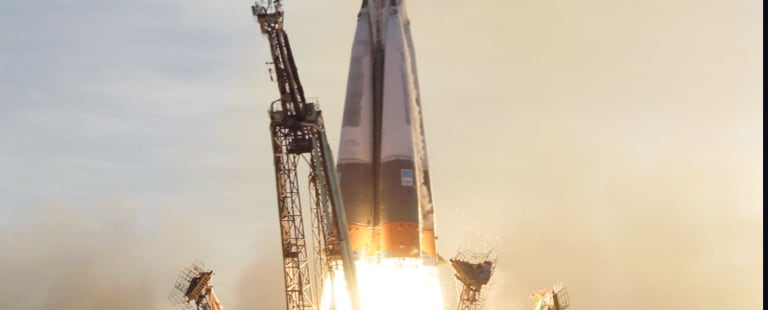
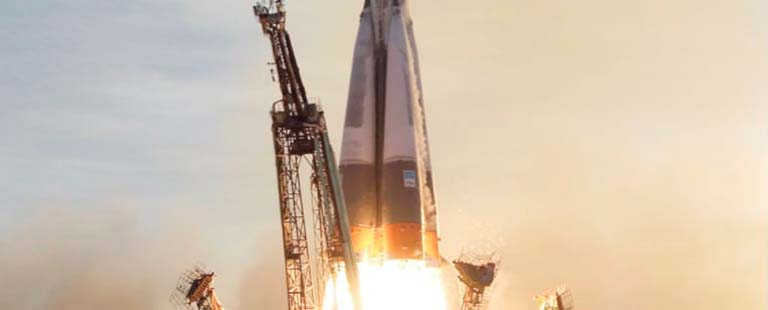
Finished technology mobile section

diff --git a/src/technology/pages/Technology.jsx b/src/technology/pages/Technology.jsx
@@ -1,14 +1,54 @@
 import { TechnologyLayout } from "../layout/TechnologyLayout";
+import { getTechnologyData } from "../../helper/helper";
+import { useState } from "react";
+import { TechOptions } from "../components/TechOptions";
 
-export const Crew = () => {
+export const Technology = () => {
+
+  const [currentTechnology, setCurrentTechnology] = useState( getTechnologyData(0) );
+
+  console.log(currentTechnology.name);
 
   return (
     <TechnologyLayout>
         {/* Main container */}
-        <div className="grid grid-cols-1 text-white justify-center lg:grid-cols-2 lg:auto-rows-min lg:grid-rows-3 lg:pl-[10%] lg:h-full
-        lg:max-h-[750px] lg:max-w-[1500px] 2xl:mx-auto 2xl:w-[1500px]">
+        <div className="flex flex-col text-white">
 
-          
+          {/* Space launch sign */}
+          <div className="flex gap-[18px] justify-center mb-8 mt-[28px] font-barlowcondensed uppercase tracking-[2.7px] 
+          md:justify-self-start md:pl-4 md:mb-[60px] md:tracking-[3.38px] md:text-xl
+          lg:tracking-[4.7px] lg:gap-[28px] lg:text-[28px] lg:pl-0 lg:mt-[90px]">
+            <strong className="opacity-25 ">03</strong>
+            <h3 className="">Space Launch 101</h3>
+          </div>
+
+          {/* Secondary container */}
+          <div>
+            {/* Rocket img */}
+            <div className="mx-[-24px]">
+              <img className="w-full lg:hidden" src={currentTechnology.images.landscape} alt="" />
+              <img className="hidden lg:block" src={currentTechnology.images.portrait} alt="" />
+              {/* <img className="w-full h-screen z-50" src="./images/technology/image-launch-vehicle-portrait.jpg" alt="" /> */}
+            </div>
+
+            {/* Slider & Info container */}
+            <div>
+              {/* Options menu */}
+              <TechOptions currentTechnology={currentTechnology} setCurrentTechnology={setCurrentTechnology} />
+              {/* Info */}
+              <div className="text-center">
+                <h2 className="mb-[9px] text-sm font-barlowcondensed text-light-blueish tracking-[2.36px] uppercase">
+                  The terminology...
+                </h2>
+                <h1 className="mb-[16px] text-2xl font-bellefair uppercase">
+                  {currentTechnology.name}
+                </h1>
+                <p className="text-[15px] leading-[25px] font-barlow text-light-blueish">
+                  {currentTechnology.description}
+                </p>
+              </div>
+            </div>
+          </div>
 
         </div>
     </TechnologyLayout>

diff --git a/tailwind.config.js b/tailwind.config.js
@@ -17,9 +17,9 @@ export default {
         'crew-tablet': "url('./images/crew/background-crew-tablet.jpg')",
         'crew-desktop': "url('./images/crew/background-crew-desktop.jpg')",
         // Technology bg-images
-        'destination-mobile': "url('./images/destination/background-destination-mobile.jpg')",
-        'destination-tablet': "url('./images/destination/background-destination-tablet.jpg')",
-        'destination-desktop': "url('./images/destination/background-destination-desktop.jpg')",
+        'technology-mobile': "url('./images/technology/background-technology-mobile.jpg')",
+        'technology-tablet': "url('./images/technology/background-technology-tablet.jpg')",
+        'technology-desktop': "url('./images/technology/background-technology-desktop.jpg')",
       },
       fontFamily: {
         'barlowcondensed': 'Barlow Condensed',

diff --git a/src/router/AppRouter.jsx b/src/router/AppRouter.jsx
@@ -2,7 +2,7 @@ import { BrowserRouter, Route, Routes } from "react-router-dom";
 import { Home } from "../home/pages/Home";
 import { Destination } from "../destination/pages/Destination";
 import { Crew } from "../crew/pages/Crew";
-import { TechnologyLayout } from "../technology/layout/TechnologyLayout";
+import { Technology } from "../technology/pages/Technology";
 
 export const AppRouter = () => {
     return (
@@ -12,7 +12,7 @@ export const AppRouter = () => {
                 <Route path="/*" element={ <Home /> } />
                 <Route path="/destination" element={ <Destination /> } />
                 <Route path="/crew" element={ <Crew /> } />
-                <Route path="/technology" element={ <TechnologyLayout /> } />
+                <Route path="/technology" element={ <Technology /> } />
             </Routes>
 
         </BrowserRouter>

diff --git a/src/technology/components/TechOptions.jsx b/src/technology/components/TechOptions.jsx
@@ -1,0 +1,28 @@
+
+import { getTechnologyData } from "../../helper/helper";
+
+const technologies = [
+    "Launch vehicle",
+    "Spaceport",
+    "Space capsule"
+]
+
+export const TechOptions = ({currentTechnology, setCurrentTechnology}) => {
+
+  return (
+    <div className="flex mb-[26px] mt-[34px] justify-center gap-4 font-bellefair">
+        {
+            technologies.map( (tech, index) => (
+                <button 
+                    key={index}
+                    className={`w-10 h-10 border border-opacity-25 rounded-full 
+                        ${ currentTechnology.name === tech ? 'bg-white text-[#0B0D17]' : ''}`}
+                    onClick={ () => setCurrentTechnology( getTechnologyData(index) ) }
+                >
+                    {index+1}
+                </button>
+            ))
+        }
+    </div>
+  )
+}

diff --git a/src/technology/layout/TechnologyLayout.jsx b/src/technology/layout/TechnologyLayout.jsx
@@ -2,9 +2,9 @@ import { Navbar } from '../../layout/Navbar';
 
 export const TechnologyLayout = ({children}) => {
   return (
-    <div className="flex flex-col bg-crew-mobile bg-cover min-h-screen p-6 bg-no-repeat 
-    md:bg-crew-tablet md:pt-0 md:pb-0 md:bg-center 
-    lg:bg-crew-desktop">
+    <div className="flex flex-col bg-technology-mobile bg-cover min-h-screen p-6 bg-no-repeat 
+    md:bg-technology-tablet md:pt-0 md:pb-0 md:bg-center 
+    lg:bg-technology-desktop">
         <Navbar currentSection='technology'/>
         {children}
     </div>

diff --git a/src/helper/helper.js b/src/helper/helper.js
@@ -1,5 +1,4 @@
-import { destinations } from "../data/data.json";
-import { crew } from "../data/data.json";
+import { destinations, crew, technology } from "../data/data.json";
 
 export const getDestinationData = ( destinationName ) => {
     return destinations.find( 
@@ -9,4 +8,8 @@ export const getDestinationData = ( destinationName ) => {
 
 export const getMemberData = ( memberNumber ) => {
   return crew[memberNumber];
+}
+
+export const getTechnologyData = ( techNumber ) => {
+  return technology[techNumber];
 }
